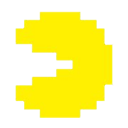
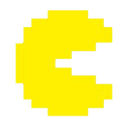
Fix rotation

Changed region(s): [[0.0938, 0.0625, 0.9062, 0.9375]]

diff --git a/pacman.c b/pacman.c
@@ -10,16 +10,15 @@ Font font = { 0 };
 Music music = { 0 };
 Sound fxCoin = { 0 };
 
-// Local Variables Definition (local to this module)
 static const int screenWidth = 800;
 static const int screenHeight = 1000;
 
 typedef struct {
     Vector2 position;   
-    Vector2 direction;  // Current movement direction
-    float speed;        // Movement speed (pixels per frame)
+    Vector2 direction;
+    float speed;
     float radius; 
-    Texture2D sprite;     // For drawing Pacman
+    Texture2D sprite;
 } Pacman;
 
 typedef struct {
@@ -30,7 +29,6 @@ typedef struct {
     Color color;
 } Ghost;
 
-// Initialize Pacman at a given position
 Pacman InitPacman(float x, float y)
 {
     Pacman p;
@@ -43,7 +41,6 @@ Pacman InitPacman(float x, float y)
 }
 Pacman pacman;
 Vector2 desiredDirection = {0,0};
-
 
 #define MAZE_ROWS 31
 #define MAZE_COLS 28
@@ -98,7 +95,7 @@ void InitGhosts() {
 }
 
 // Local Functions Declaration
-static void UpdateDrawFrame(void);          // Update and draw one frame
+static void UpdateDrawFrame(void);
 void UpdateGhosts();
 
 int main(void)
@@ -126,7 +123,7 @@ int main(void)
 #if defined(PLATFORM_WEB)
     emscripten_set_main_loop(UpdateDrawFrame, 60, 1);
 #else
-    SetTargetFPS(60);       // Set our game to run at 60 frames-per-second
+    SetTargetFPS(60);
 
     // Main game loop
     while (!WindowShouldClose())    // Detect window close button or ESC key
@@ -167,7 +164,7 @@ static void UpdateDrawFrame(void)
     if (pacmanGridPos.y >= 0 && pacmanGridPos.y < MAZE_ROWS && pacmanGridPos.x >= 0 && pacmanGridPos.x < MAZE_COLS) {
         if (maze[(int)pacmanGridPos.y][(int)pacmanGridPos.x] == 2) {
             maze[(int)pacmanGridPos.y][(int)pacmanGridPos.x] = 0; // Remove pellet
-            PlaySound(fxCoin);        // Play sound effect
+            PlaySound(fxCoin);
         }
     }
 
@@ -182,8 +179,6 @@ static void UpdateDrawFrame(void)
         (pacman.position.x - cellCenter.x) * (pacman.position.x - cellCenter.x) +
         (pacman.position.y - cellCenter.y) * (pacman.position.y - cellCenter.y)
     );
-
-    
 
     if(distToCenter <= 2.0)
     {
@@ -218,9 +213,6 @@ static void UpdateDrawFrame(void)
     pacman.position.x += pacman.direction.x * pacman.speed;
     pacman.position.y += pacman.direction.y * pacman.speed;
 
-
-
-
     UpdateGhosts();
 
 
@@ -243,17 +235,19 @@ static void UpdateDrawFrame(void)
         }
     }
 
-    // Draw Pacman as a yellow circle
-    //DrawTexture(pacman.sprite, pacman.position.x, pacman.position.y, WHITE);
     float scale = 0.3f;
-    DrawTextureEx(
+    float rotationAngle = atan2f(pacman.direction.y, pacman.direction.x) * (180.0f / PI);
+    if (rotationAngle < 0) {
+        rotationAngle += 360.0;
+    }
+
+    // Use DrawTexturePro to rotate the sprite along its center
+    DrawTexturePro(
         pacman.sprite,
-        (Vector2){
-            pacman.position.x - (pacman.sprite.width * scale) / 2,
-            pacman.position.y - (pacman.sprite.height * scale) / 2
-        },
-        0.0f,
-        scale,
+        (Rectangle) { 0, 0, pacman.sprite.width, pacman.sprite.height },
+        (Rectangle) { pacman.position.x, pacman.position.y, pacman.sprite.width* scale, pacman.sprite.height* scale }, 
+        (Vector2) { (pacman.sprite.width * scale) / 2, (pacman.sprite.height * scale) / 2 }, 
+        rotationAngle,
         WHITE
     );
 
